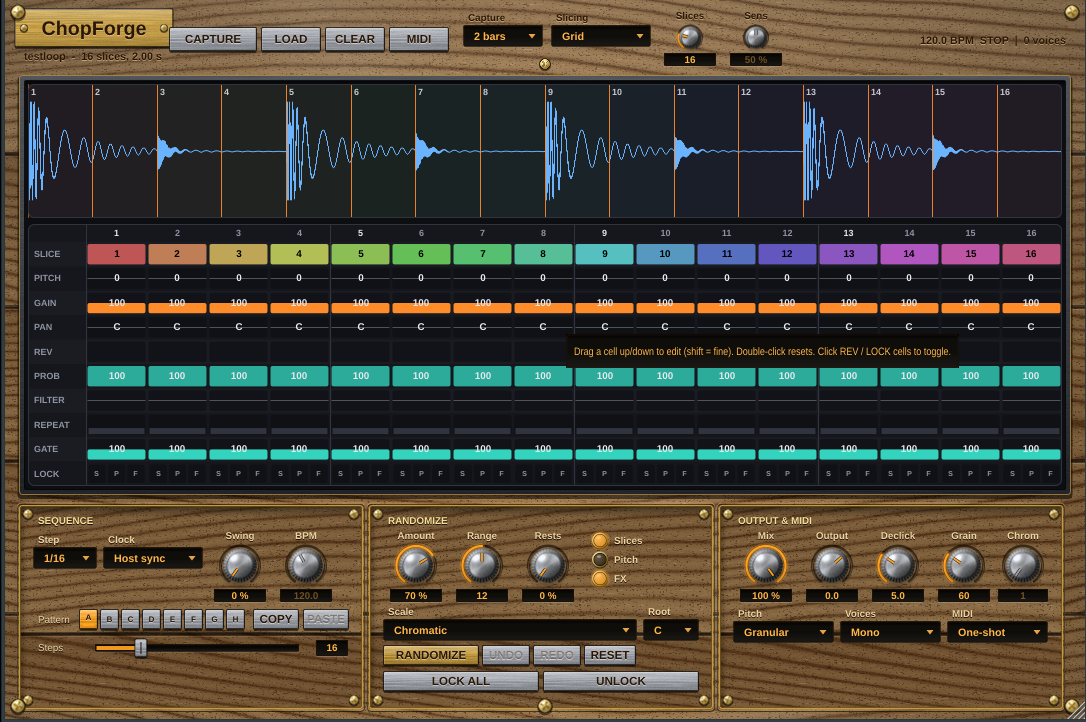
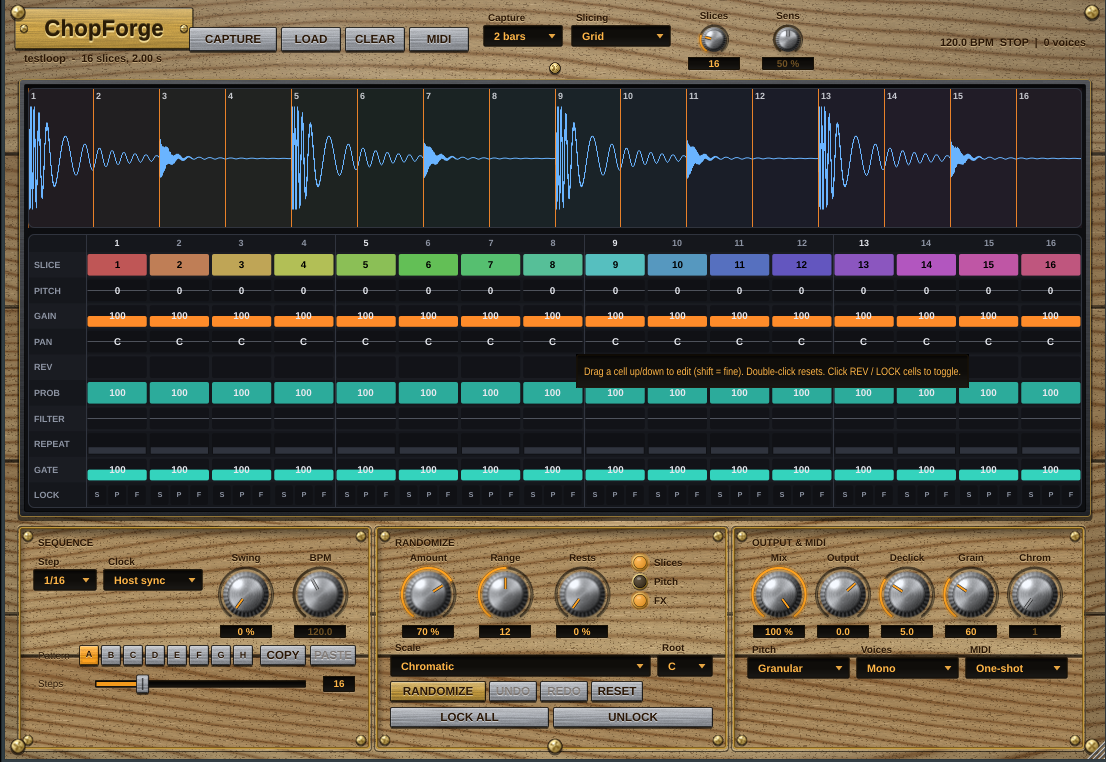
Lighter oak, larger knobs, deep-engraved nameplate
Claude-Session: https://claude.ai/code/session_014Gcsx75RRpn7itkSenGAUz

diff --git a/Source/PluginEditor.cpp b/Source/PluginEditor.cpp
@@ -11,7 +11,8 @@ ChopForgeEditor::ChopForgeEditor (ChopForgeProcessor& p)
 
     // ------------------------------------------------------------ header
     titleLabel.setText ("ChopForge", juce::dontSendNotification);
-    titleLabel.setFont (juce::FontOptions (22.0f, juce::Font::bold));
+    titleLabel.setFont (juce::FontOptions (25.0f, juce::Font::bold));
+    titleLabel.setComponentID ("nameplate");
     titleLabel.setColour (juce::Label::textColourId, colours::engraved);
     titleLabel.setJustificationType (juce::Justification::centred);
     addAndMakeVisible (titleLabel);
@@ -49,7 +50,7 @@ ChopForgeEditor::ChopForgeEditor (ChopForgeProcessor& p)
     {
         l.setText (t, juce::dontSendNotification);
         l.setFont (juce::FontOptions (11.0f, juce::Font::bold));
-        l.setColour (juce::Label::textColourId, colours::brassLight);
+        l.setColour (juce::Label::textColourId, colours::engraved);
         addAndMakeVisible (l);
     };
     makeTitle (sequenceTitle, "SEQUENCE");
@@ -70,12 +71,12 @@ ChopForgeEditor::ChopForgeEditor (ChopForgeProcessor& p)
     addAndMakeVisible (lengthSlider);
     lengthLabel.setText ("Steps", juce::dontSendNotification);
     lengthLabel.setFont (juce::FontOptions (11.0f));
-    lengthLabel.setColour (juce::Label::textColourId, colours::engravedHi);
+    lengthLabel.setColour (juce::Label::textColourId, colours::engraved);
     addAndMakeVisible (lengthLabel);
 
     patternLabel.setText ("Pattern", juce::dontSendNotification);
     patternLabel.setFont (juce::FontOptions (11.0f));
-    patternLabel.setColour (juce::Label::textColourId, colours::engravedHi);
+    patternLabel.setColour (juce::Label::textColourId, colours::engraved);
     addAndMakeVisible (patternLabel);
     for (int i = 0; i < kNumPatterns; ++i)
     {
@@ -98,7 +99,7 @@ ChopForgeEditor::ChopForgeEditor (ChopForgeProcessor& p)
     auto makeToggle = [this] (juce::ToggleButton& t, std::unique_ptr<ButtonAttachment>& att, const char* paramId, const juce::String& text)
     {
         t.setButtonText (text);
-        t.setColour (juce::ToggleButton::textColourId, colours::engravedHi);
+        t.setColour (juce::ToggleButton::textColourId, colours::engraved);
         att = std::make_unique<ButtonAttachment> (processor.apvts, paramId, t);
         addAndMakeVisible (t);
     };
@@ -127,8 +128,8 @@ ChopForgeEditor::ChopForgeEditor (ChopForgeProcessor& p)
         processor.loadFile (juce::File (autoload));
 
     setResizable (true, true);
-    setResizeLimits (960, 620, 1920, 1200);
-    setSize (1080, 720);
+    setResizeLimits (980, 660, 1920, 1200);
+    setSize (1100, 760);
     startTimerHz (30);
 }
 
@@ -148,7 +149,7 @@ void ChopForgeEditor::makeKnob (Knob& k, const char* paramId, const juce::String
     addAndMakeVisible (k.slider);
     k.label.setText (text, juce::dontSendNotification);
     k.label.setFont (juce::FontOptions (11.0f, juce::Font::bold));
-    k.label.setColour (juce::Label::textColourId, k.onWood ? colours::engraved : colours::engravedHi);
+    k.label.setColour (juce::Label::textColourId, colours::engraved);
     k.label.setJustificationType (juce::Justification::centred);
     addAndMakeVisible (k.label);
 }
@@ -162,7 +163,7 @@ void ChopForgeEditor::makeCombo (Combo& c, const char* paramId, const juce::Stri
     addAndMakeVisible (c.box);
     c.label.setText (text, juce::dontSendNotification);
     c.label.setFont (juce::FontOptions (11.0f, juce::Font::bold));
-    c.label.setColour (juce::Label::textColourId, c.onWood ? colours::engraved : colours::engravedHi);
+    c.label.setColour (juce::Label::textColourId, colours::engraved);
     addAndMakeVisible (c.label);
 }
 
@@ -212,8 +213,8 @@ void ChopForgeEditor::resized()
     auto area = getLocalBounds().reduced (14, 10);
 
     // ---- header
-    auto header = area.removeFromTop (58);
-    titleLabel.setBounds (header.removeFromLeft (150).withTrimmedBottom (22).withTrimmedTop (2));
+    auto header = area.removeFromTop (62);
+    titleLabel.setBounds (header.removeFromLeft (170).withTrimmedBottom (24).withTrimmedTop (1));
     sampleLabel.setBounds (titleLabel.getBounds().withY (titleLabel.getBottom() + 2).withHeight (18).withWidth (300));
     bpmLabel.setBounds (header.removeFromRight (200).withTrimmedTop (4));
 
@@ -224,8 +225,8 @@ void ChopForgeEditor::resized()
     exportButton.setBounds (h.removeFromLeft (60));  h.removeFromLeft (14);
     layoutCombo (captureBars, header.withTrimmedTop (2).withX (h.getX()).withWidth (80)); h.removeFromLeft (88);
     layoutCombo (sliceMode, header.withTrimmedTop (2).withX (h.getX()).withWidth (100)); h.removeFromLeft (108);
-    layoutKnob (sliceCount, header.withX (h.getX()).withWidth (62).withHeight (58)); h.removeFromLeft (66);
-    layoutKnob (sensitivity, header.withX (h.getX()).withWidth (62).withHeight (58));
+    layoutKnob (sliceCount, header.withX (h.getX()).withWidth (70).withHeight (62)); h.removeFromLeft (74);
+    layoutKnob (sensitivity, header.withX (h.getX()).withWidth (70).withHeight (62));
 
     area.removeFromTop (8);
 
@@ -239,7 +240,7 @@ void ChopForgeEditor::resized()
     auto seqPanel = footerPanels[0].reduced (14, 8);
     auto rndPanel = footerPanels[1].reduced (14, 8);
     auto outPanel = footerPanels[2].reduced (14, 8);
-    const int knobW = 66, rowH = 74;
+    const int knobW = 78, rowH = 88;
 
     // sequence
     sequenceTitle.setBounds (seqPanel.removeFromTop (16));
@@ -272,9 +273,10 @@ void ChopForgeEditor::resized()
     randomTitle.setBounds (rndPanel.removeFromTop (16));
     {
         auto row = rndPanel.removeFromTop (rowH);
-        layoutKnob (rndAmount, row.removeFromLeft (knobW));
-        layoutKnob (rndRange, row.removeFromLeft (knobW));
-        layoutKnob (rndRest, row.removeFromLeft (knobW));
+        const int w3 = juce::jmin (knobW, (row.getWidth() - 90) / 3);
+        layoutKnob (rndAmount, row.removeFromLeft (w3));
+        layoutKnob (rndRange, row.removeFromLeft (w3));
+        layoutKnob (rndRest, row.removeFromLeft (w3));
         row.removeFromLeft (10);
         auto toggles = row.removeFromLeft (70).withTrimmedTop (2);
         rndSlices.setBounds (toggles.removeFromTop (19));
@@ -307,11 +309,12 @@ void ChopForgeEditor::resized()
     outputTitle.setBounds (outPanel.removeFromTop (16));
     {
         auto row = outPanel.removeFromTop (rowH);
-        layoutKnob (mix, row.removeFromLeft (knobW));
-        layoutKnob (outGain, row.removeFromLeft (knobW));
-        layoutKnob (declick, row.removeFromLeft (knobW));
-        layoutKnob (grain, row.removeFromLeft (knobW));
-        layoutKnob (chromSlice, row.removeFromLeft (knobW));
+        const int w5 = juce::jmin (knobW, row.getWidth() / 5);
+        layoutKnob (mix, row.removeFromLeft (w5));
+        layoutKnob (outGain, row.removeFromLeft (w5));
+        layoutKnob (declick, row.removeFromLeft (w5));
+        layoutKnob (grain, row.removeFromLeft (w5));
+        layoutKnob (chromSlice, row.removeFromLeft (w5));
     }
     outPanel.removeFromTop (4);
     {

diff --git a/Source/UI/LookAndFeel.h b/Source/UI/LookAndFeel.h
@@ -27,10 +27,10 @@ namespace colours
     const juce::Colour lock         { 0xfffacc15 };
 
     // cabinet
-    const juce::Colour oakLight     { 0xffd6ad75 };
-    const juce::Colour oakMid       { 0xffb07f45 };
-    const juce::Colour oakDark      { 0xff6f4621 };
-    const juce::Colour oakPore      { 0xff3a2210 };
+    const juce::Colour oakLight     { 0xffe9cf9a };
+    const juce::Colour oakMid       { 0xffcfa568 };
+    const juce::Colour oakDark      { 0xff96693a };
+    const juce::Colour oakPore      { 0xff5a3c1c };
     const juce::Colour engraved     { 0xff2a1706 };
     const juce::Colour engravedHi   { 0xffefd3a0 };
     const juce::Colour brass        { 0xffc39a3e };
@@ -391,7 +391,7 @@ public:
             juce::Path clip;
             clip.addRoundedRectangle (r, kPanelRadius);
             g.reduceClipRegion (clip);
-            drawWood (g, area, 0.26f);
+            drawWood (g, area, 0.14f);
             // routed edge: shadow from the top and left walls
             juce::ColourGradient top (juce::Colours::black.withAlpha (0.55f), r.getX(), r.getY(), juce::Colours::transparentBlack, r.getX(), r.getY() + 12.0f, false);
             g.setGradientFill (top);
@@ -709,6 +709,20 @@ public:
         {
             g.setColour (label.findColour (juce::Label::textColourId));
             g.drawText (label.getText(), area, label.getJustificationType(), false);
+            return;
+        }
+        if (label.getComponentID() == "nameplate")
+        {
+            // deep engraving in brass: lit lower edge, shadowed upper edge, dark floor
+            const auto just = label.getJustificationType();
+            g.setColour (colours::brassLight.withAlpha (0.9f));
+            g.drawText (label.getText(), area.translated (0, 2), just, false);
+            g.setColour (colours::brassLight.withAlpha (0.5f));
+            g.drawText (label.getText(), area.translated (1, 1), just, false);
+            g.setColour (juce::Colours::black.withAlpha (0.55f));
+            g.drawText (label.getText(), area.translated (0, -1), just, false);
+            g.setColour (juce::Colour (0xff2b1c06));
+            g.drawText (label.getText(), area, just, false);
             return;
         }
         drawEngravedText (g, label.getText(), area, label.getJustificationType(),

diff --git a/Source/PluginEditor.h b/Source/PluginEditor.h
@@ -91,7 +91,7 @@ private:
     Knob chromSlice;
 
     int lastSampleVersion = -1, lastPatternVersion = -1;
-    static constexpr int kFooterHeight = 204;
+    static constexpr int kFooterHeight = 222;
     juce::Rectangle<int> screenBounds, namePlate;
     std::array<juce::Rectangle<int>, 3> footerPanels;
 
